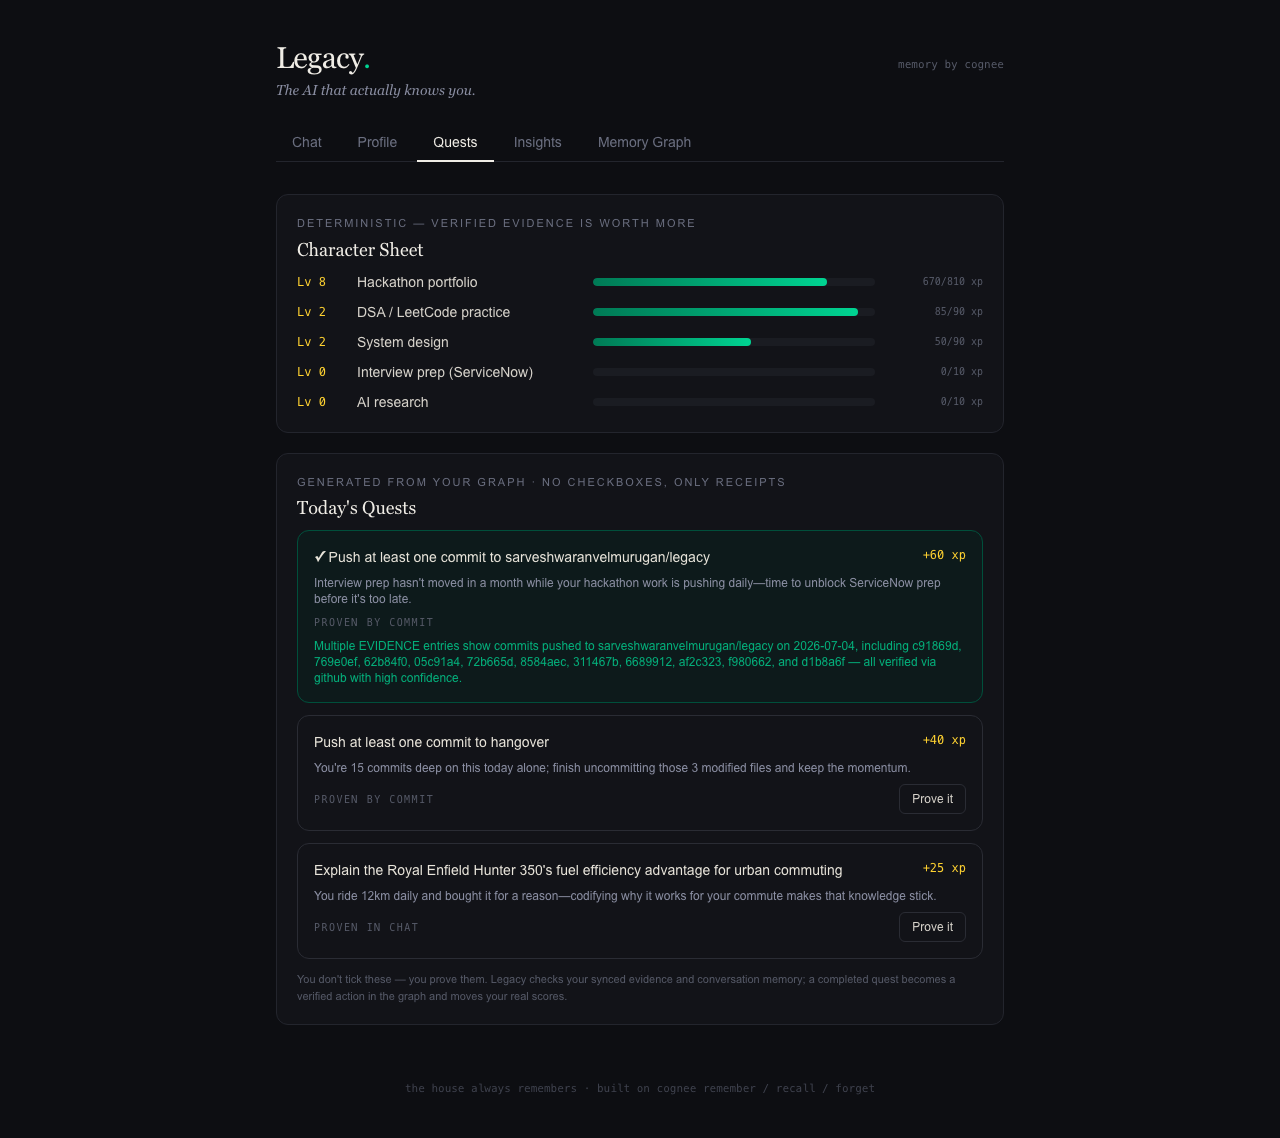
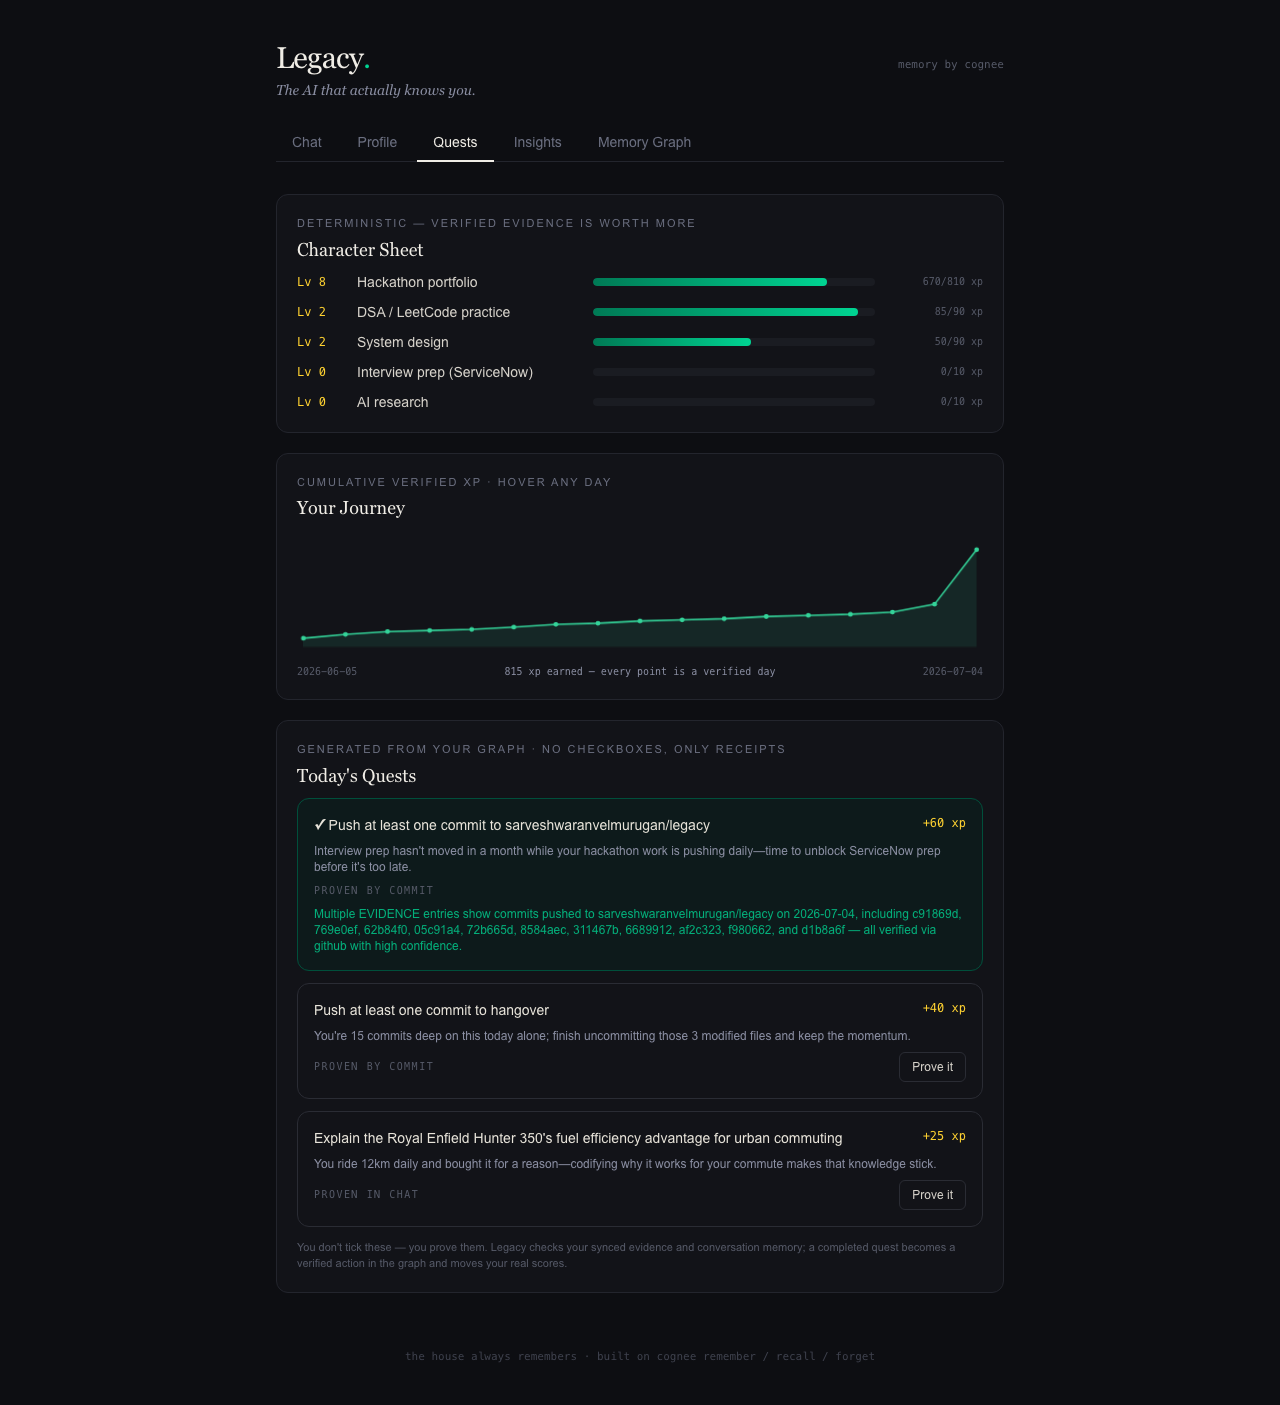
feat(journey): animated cumulative-xp journey chart and quest completion effects

diff --git a/frontend/src/App.jsx b/frontend/src/App.jsx
@@ -613,6 +613,50 @@ function ProfileScreen() {
 
 /* ---------------------------------- quests --------------------------------- */
 
+function JourneyChart({ journey }) {
+  const [hover, setHover] = useState(null)
+  if (!journey || journey.length < 2) return null
+  const W = 860, H = 130, PAD = 8
+  const xs = journey.map((_, i) => PAD + (i * (W - 2 * PAD)) / (journey.length - 1))
+  const maxXp = journey[journey.length - 1].xp
+  const ys = journey.map((d) => H - PAD - (d.xp / maxXp) * (H - 2 * PAD))
+  const line = xs.map((x, i) => `${i ? 'L' : 'M'}${x},${ys[i]}`).join(' ')
+  const area = `${line} L${xs[xs.length - 1]},${H} L${xs[0]},${H} Z`
+  const approxLen = 1200
+
+  return (
+    <div className="relative">
+      <svg viewBox={`0 0 ${W} ${H}`} className="w-full" style={{ height: 130 }}
+           onMouseLeave={() => setHover(null)}>
+        <path d={area} fill="rgba(52,211,153,0.10)" className="journey-area" />
+        <path d={line} fill="none" stroke="#34d399" strokeWidth="2"
+              strokeLinecap="round" className="journey-line"
+              strokeDasharray={approxLen} style={{ '--len': approxLen }} />
+        {journey.map((d, i) => (
+          <g key={d.date} className="journey-dot" style={{ animationDelay: `${0.2 + i * 0.06}s` }}>
+            <circle cx={xs[i]} cy={ys[i]} r="3" fill="#34d399" />
+            <circle cx={xs[i]} cy={ys[i]} r="11" fill="transparent"
+                    onMouseEnter={() => setHover({ ...d, x: xs[i], y: ys[i] })} />
+          </g>
+        ))}
+        {hover && <line x1={hover.x} y1={PAD} x2={hover.x} y2={H - PAD}
+                        stroke="rgba(139,143,163,0.35)" strokeWidth="1" />}
+      </svg>
+      {hover && (
+        <div className="absolute pointer-events-none bg-[#1a1c22] border border-[#2a2c34] rounded-md px-2.5 py-1.5 text-[11px] font-mono text-[#d7d3cb]"
+             style={{ left: `${(hover.x / W) * 100}%`, top: 0, transform: 'translateX(-50%)' }}>
+          {hover.date} · {hover.xp} xp <span className="text-emerald-400">+{hover.gained}</span>
+        </div>
+      )}
+      <div className="flex justify-between text-[10px] font-mono text-[#565a68] mt-1">
+        <span>{journey[0].date}</span>
+        <span className="text-[#8b8fa3]">{maxXp} xp earned — every point is a verified day</span>
+        <span>{journey[journey.length - 1].date}</span>
+      </div>
+    </div>
+  )
+}
+
 const VERIFY_LABEL = { github: 'proven by commit', leetcode: 'proven by solve', chat: 'proven in chat' }
 
 function QuestCard({ quest, onVerified }) {
@@ -631,8 +675,10 @@ function QuestCard({ quest, onVerified }) {
   }
 
   const done = quest.status === 'DONE' || verdict?.done
+  const justDone = verdict?.done
   return (
-    <div className={`border rounded-xl p-4 space-y-2 ${done ? 'border-emerald-900 bg-emerald-950/30' : 'border-[#2a2c34] bg-[#121318]'}`}>
+    <div className={`relative border rounded-xl p-4 space-y-2 ${done ? 'border-emerald-900 bg-emerald-950/30' : 'border-[#2a2c34] bg-[#121318]'} ${justDone ? 'quest-glow' : ''}`}>
+      {justDone && <span className="xp-pop right-4 top-2 font-mono text-emerald-300 text-sm">+{quest.xp} xp</span>}
       <div className="flex items-start justify-between gap-3">
         <div className="text-sm text-[#e8e4da] font-medium">{done ? '✓ ' : ''}{quest.title}</div>
         <span className="font-mono text-xs text-amber-300 shrink-0">+{quest.xp} xp</span>
@@ -684,6 +730,11 @@ function QuestsScreen() {
             ))}
           </div>
         )}
+      </Section>
+
+      <Section kicker="cumulative verified xp · hover any day" title="Your Journey">
+        {!board && !error && <Skeleton lines={3} />}
+        {board && <JourneyChart journey={board.journey} />}
       </Section>
 
       <Section kicker="generated from your graph · no checkboxes, only receipts" title="Today's Quests">

diff --git a/frontend/src/index.css b/frontend/src/index.css
@@ -27,3 +27,28 @@ body {
 .md th, .md td { border: 1px solid #2a2c34; padding: 0.4rem 0.6rem; text-align: left; }
 .md th { color: #8b8fa3; font-weight: 500; }
 .md code { background: #1a1c22; padding: 0.1rem 0.35rem; border-radius: 4px; font-size: 0.85em; }
+
+
+/* journey chart draw-in */
+@keyframes drawLine {
+  from { stroke-dashoffset: var(--len); }
+  to { stroke-dashoffset: 0; }
+}
+@keyframes fadeUp {
+  from { opacity: 0; transform: translateY(6px); }
+  to { opacity: 1; transform: translateY(0); }
+}
+@keyframes questGlow {
+  0% { box-shadow: 0 0 0 0 rgba(52, 211, 153, 0.5); }
+  100% { box-shadow: 0 0 0 14px rgba(52, 211, 153, 0); }
+}
+@keyframes xpPop {
+  0% { opacity: 0; transform: translateY(4px) scale(0.8); }
+  30% { opacity: 1; transform: translateY(-4px) scale(1.15); }
+  100% { opacity: 0; transform: translateY(-18px) scale(1); }
+}
+.quest-glow { animation: questGlow 0.9s ease-out; }
+.xp-pop { animation: xpPop 1.6s ease-out forwards; position: absolute; }
+.journey-line { animation: drawLine 1.6s ease-out forwards; }
+.journey-area { animation: fadeUp 1.2s ease-out 0.5s both; }
+.journey-dot { animation: fadeUp 0.4s ease-out both; }

diff --git a/backend/app/quests.py b/backend/app/quests.py
@@ -106,13 +106,29 @@ def _generate() -> list[dict]:
     return quests
 
 
+def journey() -> list[dict]:
+    """Cumulative XP per day — the deterministic shape of your month."""
+    entries = sorted(
+        (e for e in ledger.load() if e["type"] in ("ACTION", "EVIDENCE")),
+        key=lambda e: e["date"],
+    )
+    days: dict[str, int] = {}
+    for e in entries:
+        days[e["date"]] = days.get(e["date"], 0) + (25 if e["type"] == "EVIDENCE" else 10)
+    out, total = [], 0
+    for d in sorted(days):
+        total += days[d]
+        out.append({"date": d, "xp": total, "gained": days[d]})
+    return out
+
+
 def today() -> dict:
     """Today's quest board (generated once per day) + the character sheet."""
     state = json.loads(_STORE.read_text()) if _STORE.exists() else {}
     if state.get("date") != date.today().isoformat():
         state = {"date": date.today().isoformat(), "quests": _generate()}
         _STORE.write_text(json.dumps(state, indent=2))
-    return {**state, "levels": domain_levels()}
+    return {**state, "levels": domain_levels(), "journey": journey()}
 
 
 # ---------------------------------------------------------------- verification